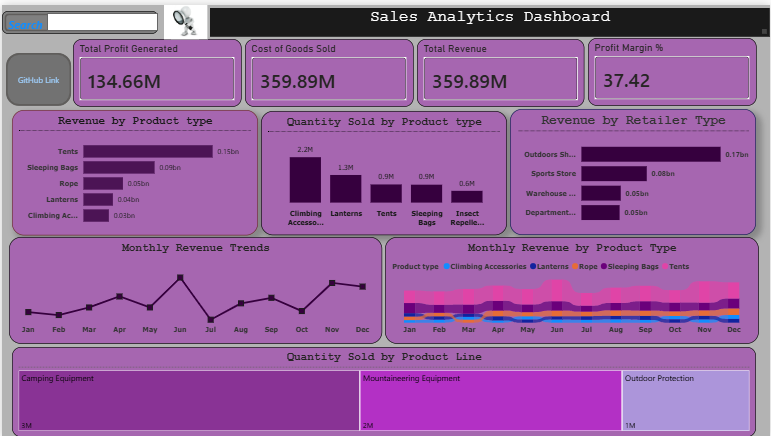
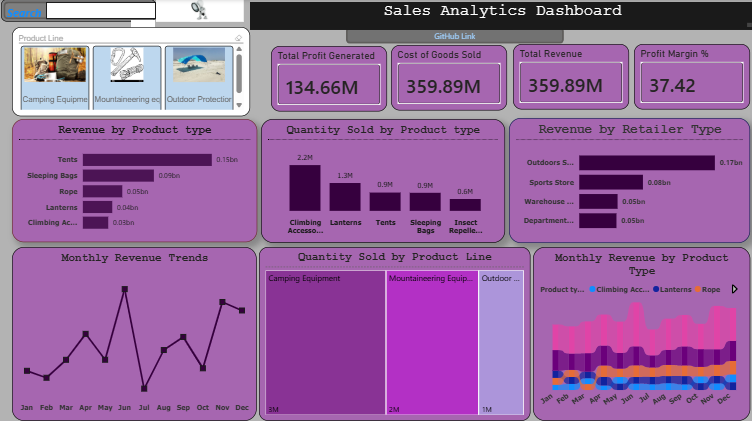
sales Analytics

diff --git a/readMe.md b/readMe.md
@@ -4,6 +4,9 @@
 
 This project presents an interactive **Sales Performance Dashboard** developed in **Power BI** to analyze sales performance across products, retailers, and time. The dashboard provides insights into revenue, profit, profit margin, sales volume, and product performance, enabling stakeholders to identify key business trends and make informed decisions.
 
+To enhance the user experience, the dashboard includes an interactive **Chiclet Slicer** for intuitive filtering, a **search feature** that allows users to quickly locate specific information, and a **GitHub button** embedded within the report, enabling users to access the project's repository directly from the dashboard for documentation and source files.
+
+
 ---
 
 ## Dashboard Preview
@@ -39,9 +42,11 @@ The dashboard was designed to answer the following business questions:
 
 * KPI Cards
 * Clustered Column Chart
+* Clustered Bar Chart
 * Line Chart
 * Ribbon Chart
 * Treemap
+* Chiclet
 
 ---
 